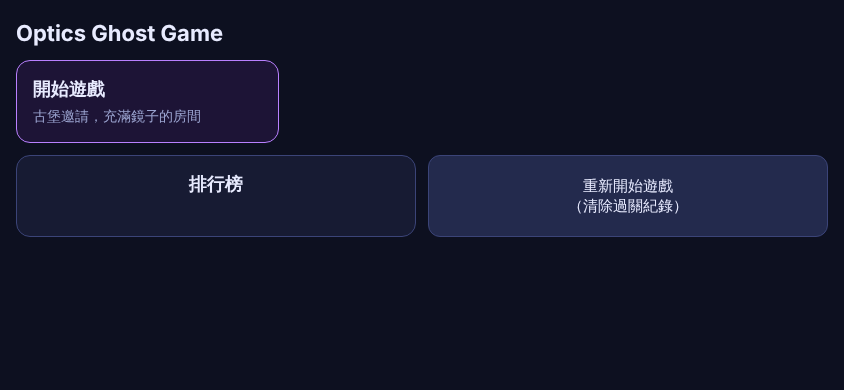
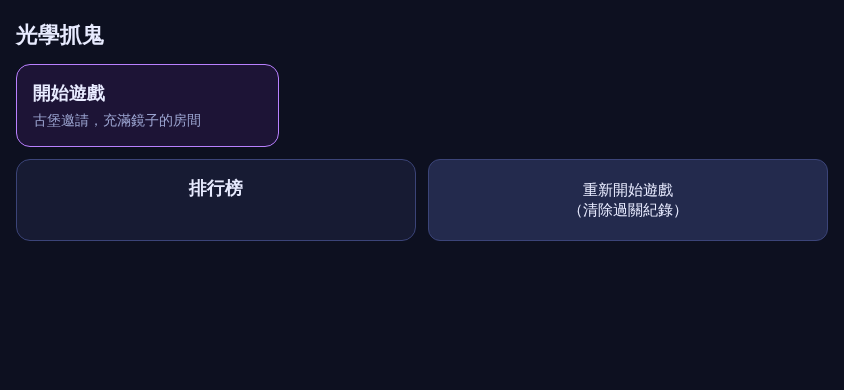
test: refresh screenshots for gate, level-2 replay caption, menu title; record test results
Claude-Session: https://claude.ai/code/session_01HvGmyUxQizYqUSGBNMCKof

diff --git a/PROJECT.md b/PROJECT.md
@@ -467,6 +467,7 @@
   4. 跳關一律擋回選單（`shared/progress.js` 的 `gate`／`showGate`；三關開頭各呼叫一次）。測試裡要進練習模式或第三關的，先在 `localStorage` 標前面的關卡已過關。
   5. 遊戲名稱「光學抓鬼」。
 - **測試**：自動測試用鬼的顏色數像素檢查「有沒有露出鬼」，所以 e2e 會設 `window.__ghostArtOff = true` 讓鬼退回單色輪廓（位置大小和小鬼圖同一個框）；小鬼圖另外檢查 9 張都載入、確實有畫、下一隻換圖。
+- `npm test` 全過（2026-11-21）：凹幾何 277、凸幾何 364、凹 e2e 1479、荒野狩獵 39、凸 e2e 2308、第二關 265（含跳關擋回選單 6 項、小鬼圖 2 項）、平面鏡幾何／第一關 e2e、排行榜後端 52、排行榜 e2e 53、選單 41、轉向 73。小鬼圖在布幕（倒立）、透鏡（正立放大虛像）、荒野透鏡裡的樣子是 Claude 用 headless 截圖看過的；**還沒在實體手機驗證**。
 - **使用者試玩時要看**：①第一關只剩一面鏡子時，鏡中碎鏡子；②第二關「看布幕／看透鏡」位置、透鏡大小、小鬼圖（布幕上倒立、透鏡裡正立放大）、光路重現說明；③第三關小鬼圖、封印失敗回畫線；④沒過關就直接開後面關卡（或練習模式）的網址會被擋回選單。
 - 使用者確認後：把這個分支併進 main（推 main 要在使用者的電腦或有權限的工作階段），`origin/claude/laughing-archimedes-1653ni` 就可以刪。
 - **檔案分工**：這個工作階段改 `prototype/shared/ghost-sprite.js`（新）、`shared/progress.js`、`plane-mirror/app.js`（結尾幾行）、`tests/e2e-plane-mirror.js`、`convex-lens/{app.js,index.html}`、`concave-lens/{app.js,index.html}`、各頁 `<title>`、`prototype/index.html` 標題、`manifest.webmanifest`、`tests/e2e-{convex-level,convex-lens,concave-lens,hunt}.js`、`PROJECT.md`。（收工時這行留著，直到併進 main。）
